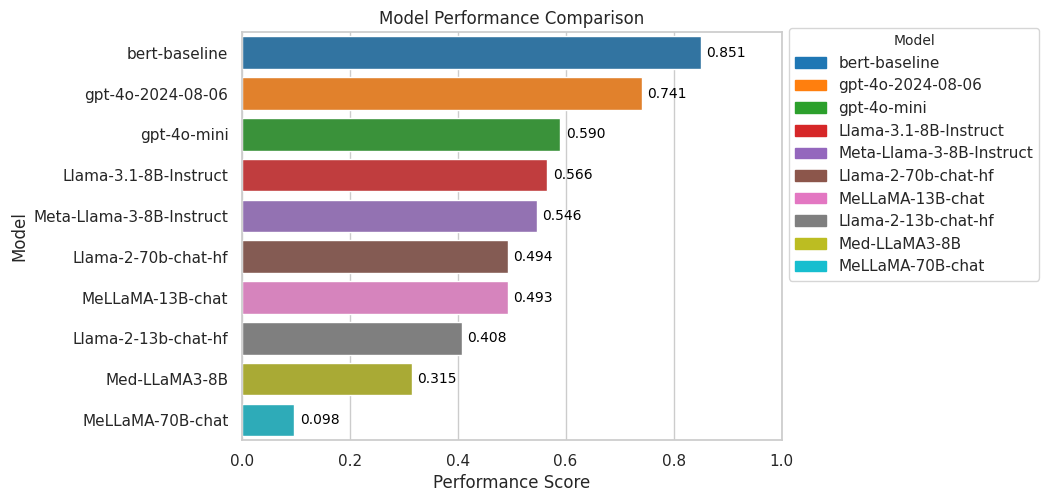
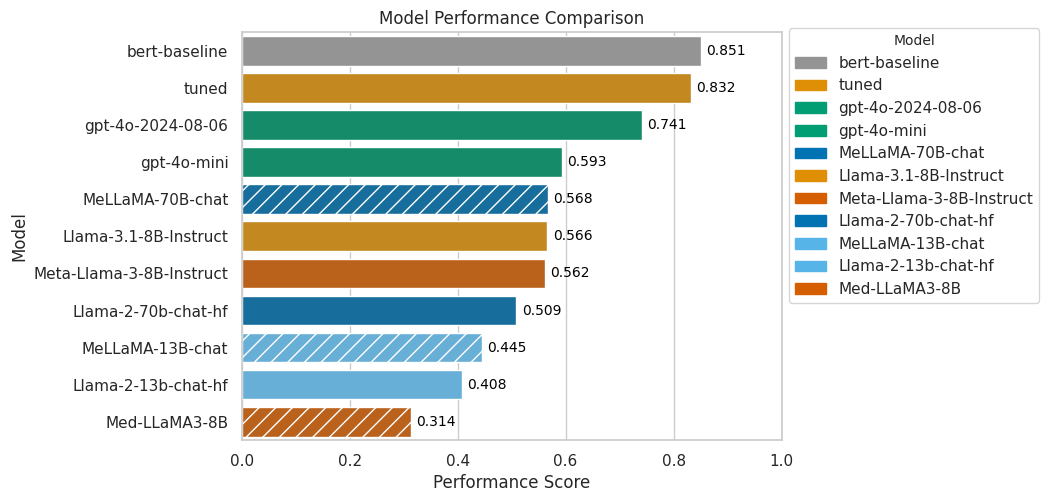
Add some zero_shot evaluation plots

Changed region(s): [[0.0305, 0.0598, 0.7016, 0.8964], [0.7321, 0.0896, 0.9762, 0.5976]]

diff --git a/plots/plots.py b/plots/plots.py
@@ -13,6 +13,41 @@ BERT_PRED = '/home/vera/Documents/Uni/Master/Master_Thesis2.0/PsyNamic-Scale/ber
 
 sns.set(style="whitegrid")
 
+# color_map = {
+#     'gpt-4o-2024-08-06': '#17a583',
+#     'gpt-4o-mini': '#48c9b0',
+#     'bert-baseline': '#7f7f7f',
+#     'tuned': '#ff7f00',
+#     'Llama-3.1-8B-Instruct': '#fdbf6f',
+#     'Meta-Llama-3-8B-Instruct': '#fb9a99',
+#     'Med-LLaMA3-8B': '#e31a1c',
+#     'MeLLaMA-70B-chat': '#1f78b4',
+#     'MeLLaMA-13B-chat': '#33a02c',
+#     'Llama-2-70b-chat-hf': '#a6cee3',
+#     'Llama-2-13b-chat-hf': '#b2df8a',
+# }
+
+# Based on seaborn colorblind palette
+color_map = {
+    'gpt-4o-2024-08-06': '#029e73',
+    'gpt-4o-mini': '#029e73',
+    'bert-baseline': '#949494',
+    'tuned': '#de8f05',
+    'Llama-3.1-8B-Instruct': '#de8f05',
+    'Meta-Llama-3-8B-Instruct': '#d55e00',
+    'Med-LLaMA3-8B': '#d55e00',
+    'MeLLaMA-70B-chat': '#0173b2',
+    'MeLLaMA-13B-chat': '#56b4e9',
+    'Llama-2-70b-chat-hf': '#0173b2',
+    'Llama-2-13b-chat-hf': '#56b4e9',
+}
+
+texture_map = {
+    'MeLLaMA-70B-chat': 'hatch',
+    'MeLLaMA-13B-chat': 'hatch',
+    'Med-LLaMA3-8B': 'hatch',
+}
+
 
 def make_performance_plot(data: dict, save_path: str = None, metrics_col: str = 'metrics') -> None:
     rows = []
@@ -97,30 +132,35 @@ def make_performance_plot(data: dict, save_path: str = None, metrics_col: str = 
         plt.show()
 
 
-def make_simple_performance_plot(data: dict, save_path: str = None) -> None:
+def make_simple_performance_plot(data: pd.DataFrame, save_path: str = None) -> None:
     """
-    Plot a horizontal barplot for simple model performance comparison, styled similarly to make_performance_plot.
-    Input data: {model_name: score}
+    Plot a simple horizontal barplot comparing model performance.
+    Expects a DataFrame with columns: 'model' and 'performance'.
     """
-    df = pd.DataFrame(data.items(), columns=['model', 'mean'])
-    df = df.sort_values(by='mean', ascending=False).reset_index(drop=True)
+    df = data.copy()
+    df = df.sort_values(by='performance', ascending=False).reset_index(drop=True)
 
     unique_models = df['model'].unique()
-    palette = sns.color_palette("tab10", len(unique_models))
-    model_colors = dict(zip(unique_models, palette))
+    model_colors = {model: color_map.get(model, sns.color_palette("tab10")[i % 10])
+                    for i, model in enumerate(unique_models)}
 
     fig, ax = plt.subplots(figsize=(8, 6))
 
-    sns.barplot(
-        x="mean",
+    barplot = sns.barplot(
+        x="performance",
         y="model",
         data=df,
-        palette=model_colors,
+        palette=[model_colors[model] for model in df['model']],
         ax=ax,
         errorbar=None,
-        legend=False,
         orient="h"
     )
+
+    # Apply hatching to bars for models in texture_map
+    for idx, patch in enumerate(ax.patches):
+        model = df.loc[idx, "model"]
+        if model in texture_map:
+            patch.set_hatch('//')
 
     ax.set(xlim=(0, 1))
     ax.set_xlabel("Performance Score")
@@ -128,13 +168,13 @@ def make_simple_performance_plot(data: dict, save_path: str = None) -> None:
     ax.set_title("Model Performance Comparison")
 
     for idx, row in df.iterrows():
-        ax.text(row["mean"] + 0.01, idx, f"{row['mean']:.3f}",
+        ax.text(row["performance"] + 0.01, idx, f"{row['performance']:.3f}",
                 va="center", ha="left", color="black", fontsize=10)
 
     # Single legend
-    handles = [plt.Rectangle((0, 0), 1, 1, color=color)
-               for model, color in model_colors.items()]
-    labels = list(model_colors.keys())
+    handles = [plt.Rectangle((0, 0), 1, 1, color=model_colors[model], hatch='//' if model in texture_map else '')
+               for model in unique_models]
+    labels = list(unique_models)
     fig.legend(handles, labels, title="Model", loc="upper left",
                bbox_to_anchor=(0.8, 0.9), title_fontsize="small")
 
@@ -144,7 +184,6 @@ def make_simple_performance_plot(data: dict, save_path: str = None) -> None:
         plt.close()
     else:
         plt.show()
-
 
 def make_few_shot_performance_plot(data: dict, save_path: str = None, metric: str = "f1-weighted") -> None:
     """
@@ -324,6 +363,70 @@ def plot_length_histogram(data: list[str], title: str, ax: Axes = None, label: s
     if fig is not None:
         plt.show()
 
+
+def make_performance_box_plot(data: pd.DataFrame, title: str, save_path: str = None):
+    mean_performance = data.groupby('model')['performance'].mean().sort_values(ascending=False)
+    ordered_models = mean_performance.index.tolist()
+    
+    plt.figure(figsize=(12, 6))
+    box = sns.boxplot(
+        data=data,
+        x="model",
+        y="performance",
+        showfliers=True,
+        order=ordered_models,
+        palette=[color_map.get(model, "#cccccc") for model in ordered_models]
+    )
+    sns.stripplot(
+        data=data,
+        x="model",
+        y="performance",
+        color="black",
+        size=3,
+        alpha=0.6,
+        jitter=True,
+        order=ordered_models
+    )
+    plt.xticks(rotation=45, ha="right")
+    plt.title(title)
+    plt.ylabel("Performance")
+    plt.xlabel("Model")
+    plt.tight_layout()
+    if save_path:
+        plt.savefig(save_path, bbox_inches='tight')
+        plt.close()
+    else:
+        plt.show()
+
+
+def make_performance_spider_plot(data: pd.DataFrame, title: str, save_path: str = None):
+    df_pivot = data.pivot(index="model", columns="task", values="performance")
+    tasks = df_pivot.columns.tolist()
+    num_tasks = len(tasks)
+
+    angles = np.linspace(0, 2 * np.pi, num_tasks, endpoint=False).tolist()
+    angles += angles[:1] 
+    fig, ax = plt.subplots(figsize=(8, 8), subplot_kw=dict(polar=True))
+
+    for model, row in df_pivot.iterrows():
+        values = row.tolist()
+        values += values[:1] 
+        color = color_map.get(model, None)
+        linestyle = '--' if model in texture_map else '-'
+        ax.plot(angles, values, label=model, color=color, linestyle=linestyle, linewidth=2)
+        ax.fill(angles, values, alpha=0.1, color=color)
+
+    ax.set_xticks(angles[:-1])
+    ax.set_xticklabels(tasks, fontsize=10)
+    ax.set_ylim(0, 1)
+    plt.title(title, size=14, weight="bold", pad=20)
+    ax.legend(loc="upper right", bbox_to_anchor=(1.2, 1.1))
+    plt.tight_layout()
+    if save_path:
+        plt.savefig(save_path, bbox_inches='tight')
+        plt.close()
+    else:
+        plt.show()
 
 if __name__ == "__main__":
     # data = [[1, 0, 1, 0, 1],
